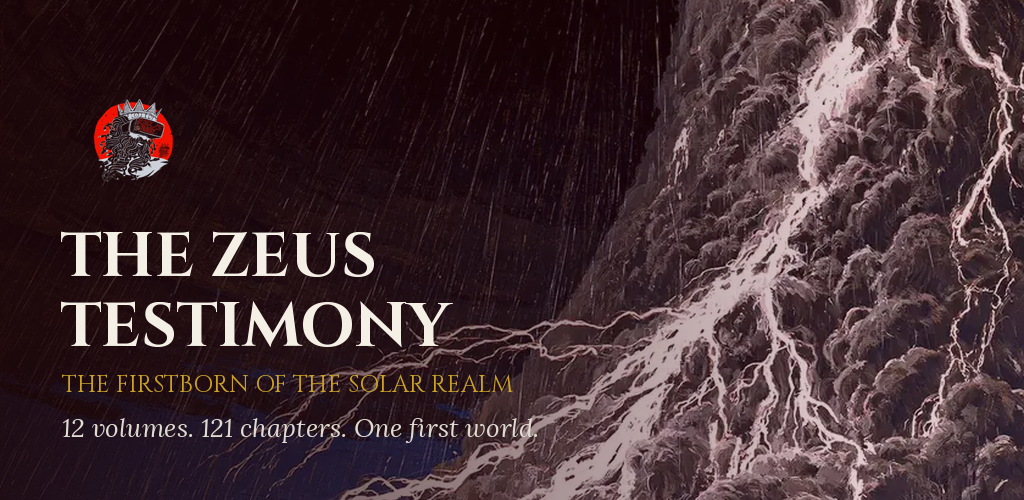
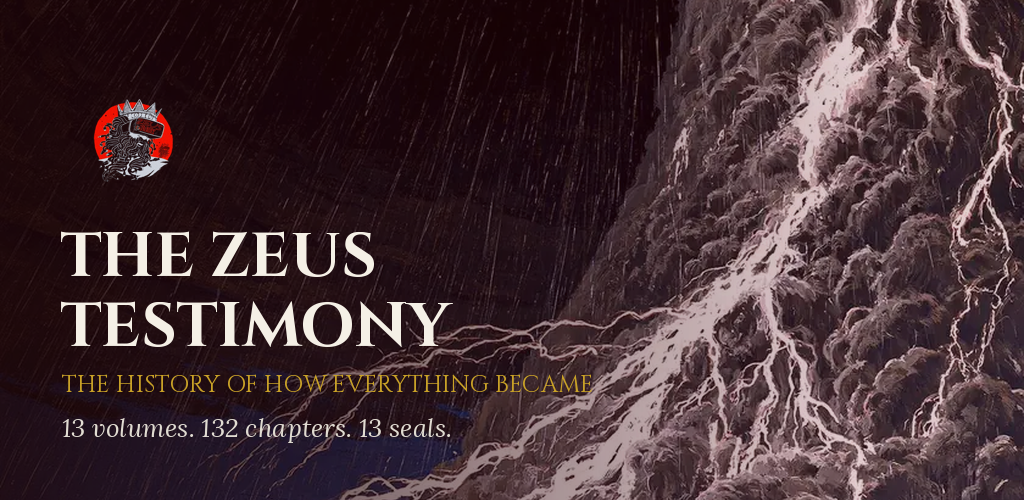
v2.9.0: The Acts of the Sky Father, volume seals, full terms of use
Content
- New volume, "The Acts of the Sky Father" (11 chapters), honouring Zeus's
  power, justice and gifts: his house and lineage, the freeing of the
  Cyclopes, the Titanomachy, the casting of lots, Zeus Xenios and Baucis
  and Philemon, Zeus Horkios and the Zanes, the Muses and Urania, the
  eagle, oak and thunderbolt, the Statue at Olympia, Marduk and the Enuma
  Elish, and the thunder gods Thor, Perun, Indra and Shango.
- Volume X recast from encouragement to revelation.
- 13 volumes, 132 chapters, 1,061 verses, 146 illustrations.

Features
- Seals: every volume carries a hidden verse that is revealed only once all
  its chapters have been read (new @seal directive, validated and tested).
- Volume chapter list shows READ in the chapter label.
- Terms of Use expanded to 19 sections and the Privacy Policy expanded,
  including POPIA and the Consumer Protection Act; contact
  thezeustower@gmail.com in the app, About screen and docs.

Claude-Session: https://claude.ai/code/session_01SLJxv3LMu86HmnE1Ybuoap

Changed region(s): [[0.0625, 0.84, 0.5312, 0.9], [0.125, 0.75, 0.5938, 0.81]]

diff --git a/app/src/main/java/com/example/ui/screens/LegalScreen.kt b/app/src/main/java/com/example/ui/screens/LegalScreen.kt
@@ -13,41 +13,80 @@ import androidx.compose.ui.unit.dp
 
 private const val EFFECTIVE = "Effective 22 November 2026"
 
+const val SUPPORT_EMAIL = "thezeustower@gmail.com"
+
 private val privacy = listOf(
     "In short" to "The Zeus Testimony collects no personal data. It has no accounts, no advertising, no analytics, " +
         "no crash reporting service and no internet permission, so it cannot send anything about you anywhere.",
+    "Who we are" to "The app is published by Zeus Factor, South Africa. Contact: $SUPPORT_EMAIL.",
     "What is stored on your device" to "To make reading comfortable, the app remembers a few things in its own private " +
         "storage on your phone: the chapter and verse you last read, your text size, the chapters you have opened, your " +
         "bookmarks and highlights, and whether you have seen the introduction. This information never leaves your device " +
-        "through the app.",
+        "through the app, and we cannot see it.",
+    "What we do not collect" to "We do not collect your name, email address, phone number, location, contacts, photos, " +
+        "device identifiers, advertising identifiers, usage statistics or any other information about you.",
     "Device backups" to "If you have turned on Android's own backup, your phone may include these reading settings in " +
         "your personal backup, so they can be restored on a new phone. That backup is controlled by you and Google, not by us.",
     "Deleting your information" to "Uninstalling the app, or clearing its storage in your phone's settings, deletes " +
         "everything listed above. Removing a bookmark or highlight in My Library deletes it immediately.",
     "Permissions" to "The app requests no special permissions: no camera, microphone, location, contacts or files. " +
         "Sharing a verse uses Android's standard share window, and you choose where it goes.",
+    "Third parties" to "The app contains no third-party advertising, analytics or tracking code. Google Play, which " +
+        "delivers the app, has its own privacy policy.",
     "Children" to "The app is not directed at children under 13, and it collects no data from anyone.",
+    "Your rights" to "Because we hold no personal information about you, there is nothing for us to access, correct or " +
+        "delete on your behalf. South Africa's Protection of Personal Information Act (POPIA) and similar laws are " +
+        "respected by design: no personal information is processed.",
     "Changes" to "If this policy ever changes, the new version will appear here and on the app's store page with a new date.",
-    "Contact" to "Questions can be sent to the developer email address shown on the app's Google Play page.",
+    "Contact" to "Questions about privacy: $SUPPORT_EMAIL.",
 )
 
 private val terms = listOf(
-    "Agreement" to "By using The Zeus Testimony you agree to these terms. If you do not agree, please uninstall the app.",
-    "What this book is" to "The Zeus Testimony is a creative and inspirational work. It tells the history of how the " +
-        "solar system and life came to be, written in an epic style. Science and History notes summarise published " +
-        "research for general education; they are simplified and may be revised as knowledge grows. Statements about the " +
-        "spirit and the meaning of life are the beliefs of the author, offered for reflection. Nothing in the app is " +
-        "professional, medical, legal or financial advice.",
-    "Your use" to "You may read the app for personal, non-commercial purposes and share individual verses using the " +
-        "share button, with credit to The Zeus Testimony. You may not copy, sell or republish the book, its illustrations " +
-        "or its design as your own.",
-    "Ownership" to "The text and design of the app belong to Zeus Factor. The illustrations are used with the permission " +
-        "of their artists and remain their property. The Cinzel and Lora typefaces are used under the SIL Open Font License 1.1.",
-    "No warranty" to "The app is provided as it is. We work to keep it accurate and working, but we cannot promise it will " +
-        "be free of errors, and we are not liable for losses arising from its use, to the extent the law allows.",
-    "Changes" to "We may update the app and these terms. Continued use after an update means you accept the updated terms.",
-    "Law" to "These terms are governed by the laws of the Republic of South Africa.",
-    "Contact" to "Questions can be sent to the developer email address shown on the app's Google Play page.",
+    "1. Agreement" to "These Terms of Use are an agreement between you and Zeus Factor, the publisher of The Zeus " +
+        "Testimony (the \"app\"). By installing or using the app you accept these terms. If you do not accept them, " +
+        "please uninstall the app.",
+    "2. Who may use the app" to "The app is intended for readers aged 13 and older. If you are under the age of " +
+        "majority where you live, use it with the permission of a parent or guardian.",
+    "3. What this book is" to "The Zeus Testimony is a literary, poetic and educational work. It tells the history of " +
+        "how the solar system, the Earth and life came to be, in the voice of an ancient testimony. It draws on published " +
+        "science, recorded history and the myths and sacred stories of many peoples.",
+    "4. Science and history notes" to "Science and History notes summarise research and historical sources for general " +
+        "education. They are simplified, may be incomplete, and may be revised as knowledge grows. They are not a " +
+        "substitute for the original sources, which are listed in the About screen where relevant.",
+    "5. Faith, myth and meaning" to "The app speaks of gods, of the Sky Father and of the spirit. These passages express " +
+        "the author's beliefs and the traditions of the peoples they come from, offered for reflection and study. They " +
+        "are not presented as scientific findings, and the app does not require any reader to adopt any belief or " +
+        "religion. Readers of every faith and of none are welcome.",
+    "6. Not professional advice" to "Nothing in the app is medical, psychological, legal, financial or other " +
+        "professional advice. Seek a qualified professional for such matters.",
+    "7. Your licence" to "Zeus Factor grants you a personal, non-exclusive, non-transferable, revocable licence to " +
+        "install the app on devices you own or control and to read it for personal, non-commercial purposes.",
+    "8. Sharing" to "You may share individual verses using the app's share and copy buttons for personal, non-commercial " +
+        "purposes, provided you credit \"The Zeus Testimony\" and do not alter the words in a way that changes their meaning.",
+    "9. What you may not do" to "You may not copy, publish, sell, rent or distribute the book as a whole or in substantial " +
+        "parts; extract, reuse or resell its illustrations; decompile, modify or create derivative versions of the app; " +
+        "remove credits or notices; or use the app in any way that breaks the law.",
+    "10. Ownership" to "The text, structure and design of the app are owned by Zeus Factor. The illustrations are used " +
+        "with the permission of their artists and remain their property. The Cinzel and Lora typefaces are used under the " +
+        "SIL Open Font License 1.1. Names of gods, peoples and historical figures belong to the common heritage of humanity.",
+    "11. Your data" to "The app collects no personal data. Everything it remembers is stored only on your device. See " +
+        "the Privacy Policy tab for details.",
+    "12. Availability and changes" to "We may update, change, add to or remove content or features of the app at any " +
+        "time, and we may stop offering the app. Updates are delivered through Google Play.",
+    "13. No warranty" to "The app is provided \"as is\" and \"as available\". To the fullest extent the law allows, " +
+        "we make no promise that it will be free of errors or interruptions, or that its content is complete or current.",
+    "14. Limitation of liability" to "To the fullest extent the law allows, Zeus Factor is not liable for any indirect, " +
+        "incidental or consequential loss arising from your use of the app. Nothing in these terms limits any rights you " +
+        "have that cannot be limited by law, including your rights under South Africa's Consumer Protection Act where it applies.",
+    "15. Google Play" to "Your download of the app is also subject to the Google Play Terms of Service. Google is not " +
+        "responsible for the app or its content.",
+    "16. Ending these terms" to "You may stop using the app at any time by uninstalling it. Your licence ends " +
+        "automatically if you break these terms.",
+    "17. General" to "If any part of these terms is found unenforceable, the rest remains in effect. These terms are " +
+        "the whole agreement between you and us about the app.",
+    "18. Governing law" to "These terms are governed by the laws of the Republic of South Africa, and the courts of " +
+        "South Africa have jurisdiction over any dispute.",
+    "19. Contact" to "Questions about these terms: $SUPPORT_EMAIL.",
 )
 
 @OptIn(ExperimentalMaterial3Api::class)

diff --git a/app/src/main/java/com/example/ui/screens/VolumeScreen.kt b/app/src/main/java/com/example/ui/screens/VolumeScreen.kt
@@ -1,6 +1,13 @@
 package com.example.ui.screens
 
+import androidx.compose.foundation.background
+import androidx.compose.foundation.border
 import androidx.compose.foundation.clickable
+import androidx.compose.foundation.shape.RoundedCornerShape
+import androidx.compose.material.icons.filled.Lock
+import androidx.compose.material.icons.filled.LockOpen
+import androidx.compose.ui.draw.clip
+import androidx.compose.ui.text.font.FontStyle
 import androidx.compose.foundation.layout.*
 import androidx.compose.foundation.lazy.LazyColumn
 import androidx.compose.foundation.lazy.items
@@ -65,12 +72,18 @@ fun VolumeScreen(volume: Volume?, library: LibraryStore, onOpenChapter: (Positio
                     modifier = Modifier
                         .clickable { onOpenChapter(Position(volume.index, chapter.index)) }
                         .padding(horizontal = 8.dp),
-                    overlineContent = { Text("CHAPTER ${chapter.number}", color = MaterialTheme.colorScheme.primary, style = MaterialTheme.typography.labelSmall) },
-                    headlineContent = { Text(chapter.title, style = MaterialTheme.typography.titleSmall) },
-                    supportingContent = {
+                    overlineContent = {
                         val read = "${volume.index}.${chapter.index}" in library.readChapters
                         Text(
-                            (chapter.epigraph ?: "${chapter.verses.size} verses") + if (read) "  ·  Read" else "",
+                            "CHAPTER ${chapter.number}" + if (read) "  ·  READ" else "",
+                            color = MaterialTheme.colorScheme.primary,
+                            style = MaterialTheme.typography.labelSmall,
+                        )
+                    },
+                    headlineContent = { Text(chapter.title, style = MaterialTheme.typography.titleSmall) },
+                    supportingContent = {
+                        Text(
+                            chapter.epigraph ?: "${chapter.verses.size} verses",
                             style = MaterialTheme.typography.bodySmall,
                             maxLines = 2,
                         )
@@ -81,6 +94,50 @@ fun VolumeScreen(volume: Volume?, library: LibraryStore, onOpenChapter: (Positio
                     },
                 )
             }
+            volume.seal?.let { seal ->
+                item { SealCard(seal, read = library.readCount(volume), total = volume.chapters.size) }
+            }
+        }
+    }
+}
+
+/** The volume's hidden verse: locked until every chapter has been opened. */
+@Composable
+private fun SealCard(seal: String, read: Int, total: Int) {
+    val open = read >= total
+    val gold = Color(0xFFC9A227)
+    Column(
+        Modifier
+            .fillMaxWidth()
+            .padding(24.dp)
+            .clip(RoundedCornerShape(16.dp))
+            .background(MaterialTheme.colorScheme.surface)
+            .border(1.dp, gold.copy(alpha = if (open) 0.9f else 0.35f), RoundedCornerShape(16.dp))
+            .padding(24.dp),
+        horizontalAlignment = Alignment.CenterHorizontally,
+    ) {
+        Icon(
+            if (open) Icons.Filled.LockOpen else Icons.Filled.Lock,
+            contentDescription = null,
+            tint = gold,
+        )
+        Spacer(Modifier.height(10.dp))
+        Text(if (open) "THE SEAL IS BROKEN" else "A SEAL RESTS ON THIS VOLUME", style = MaterialTheme.typography.labelSmall, color = gold)
+        Spacer(Modifier.height(12.dp))
+        if (open) {
+            Text(
+                seal,
+                style = MaterialTheme.typography.titleSmall.copy(fontStyle = FontStyle.Italic),
+                color = MaterialTheme.colorScheme.onSurface,
+                textAlign = TextAlign.Center,
+            )
+        } else {
+            Text(
+                "Read every chapter of this volume to break the seal ($read of $total).",
+                style = MaterialTheme.typography.bodySmall,
+                color = MaterialTheme.colorScheme.onSurface.copy(alpha = 0.7f),
+                textAlign = TextAlign.Center,
+            )
         }
     }
 }

diff --git a/app/src/main/java/com/example/data/TestimonyParser.kt b/app/src/main/java/com/example/data/TestimonyParser.kt
@@ -18,7 +18,7 @@ object TestimonyParser {
         val verses = mutableListOf<VerseB>()
     }
     private class VolumeB(val title: String) {
-        var subtitle = ""; var summary = ""; var image: String? = null
+        var subtitle = ""; var summary = ""; var image: String? = null; var seal: String? = null
         val chapters = mutableListOf<ChapterB>()
     }
 
@@ -42,6 +42,7 @@ object TestimonyParser {
                         "volume" -> volumes += VolumeB(value)
                         "subtitle" -> (volume ?: fail(lineNo, "@subtitle before any @volume")).subtitle = value
                         "summary" -> (volume ?: fail(lineNo, "@summary before any @volume")).summary = value
+                        "seal" -> (volume ?: fail(lineNo, "@seal before any @volume")).seal = value
                         "chapter" -> (volume ?: fail(lineNo, "@chapter before any @volume")).chapters += ChapterB(value)
                         "epigraph" -> (chapter ?: fail(lineNo, "@epigraph must follow a @chapter")).epigraph = value
                         "image" -> {
@@ -74,6 +75,7 @@ object TestimonyParser {
                     subtitle = v.subtitle,
                     summary = v.summary,
                     image = v.image,
+                    seal = v.seal,
                     chapters = v.chapters.mapIndexed { ci, c ->
                         Chapter(
                             volumeIndex = vi,

diff --git a/app/src/test/java/com/example/ui/ResumeAndLegalTest.kt b/app/src/test/java/com/example/ui/ResumeAndLegalTest.kt
@@ -58,4 +58,22 @@ class ResumeAndLegalTest {
         rule.onNodeWithText("Terms of Use").performClick()
         waitFor("Republic of South Africa")
     }
+
+    @Test
+    fun sealOpensWhenVolumeIsFinished() {
+        val context = ApplicationProvider.getApplicationContext<Context>()
+        ReadingPrefs(context).introSeen = true
+        val testimony = com.example.data.TestimonyParser.parse(java.io.File("src/main/assets/testimony.txt").readText())
+        val read = org.json.JSONObject()
+        testimony.volumes[0].chapters.forEach { read.put("0.${it.index}", 1L) }
+        context.getSharedPreferences("library", Context.MODE_PRIVATE).edit().putString("read", read.toString()).commit()
+        rule.setContent { AppTheme(darkTheme = true) { AppNavigation() } }
+        waitFor("THE ZEUS TESTIMONY")
+        rule.onNode(hasScrollAction()).performScrollToNode(hasText("The Unnamed Source"))
+        rule.onAllNodesWithText("The Unnamed Source")[0].performClick()
+        waitFor("VOLUME I")
+        rule.onNode(hasScrollAction()).performScrollToNode(hasText("THE SEAL IS BROKEN"))
+        rule.onNodeWithText(testimony.volumes[0].seal!!).assertExists()
+        rule.onRoot().captureRoboImage("build/screens/10_seal.png")
+    }
 }

diff --git a/app/src/test/java/com/example/TestimonyParserTest.kt b/app/src/test/java/com/example/TestimonyParserTest.kt
@@ -75,12 +75,13 @@ class TestimonyParserTest {
     @Test
     fun bundledTestimonyIsWellFormed() {
         val t = TestimonyParser.parse(File("src/main/assets/testimony.txt").readText())
-        assertEquals(12, t.volumes.size)
+        assertEquals(13, t.volumes.size)
         val raw = File("src/main/assets/testimony.txt").readText()
         assertTrue("em or en dash in content", '\u2014' !in raw && '\u2013' !in raw)
         t.volumes.forEach { v ->
             assertTrue("${v.title} has too few chapters", v.chapters.size >= 4)
             assertTrue("${v.title} lacks summary", v.summary.isNotBlank())
+            assertTrue("${v.title} lacks a seal", !v.seal.isNullOrBlank())
             assertEquals(v.chapters.size, v.chapters.map { it.title }.toSet().size)
             v.chapters.forEach {
                 assertTrue("${it.title} has too few verses", it.verses.size >= 7)

diff --git a/app/src/main/java/com/example/ui/screens/AboutScreen.kt b/app/src/main/java/com/example/ui/screens/AboutScreen.kt
@@ -52,7 +52,8 @@ fun AboutScreen(testimony: Testimony, onShowIntro: () -> Unit, onLegal: () -> Un
             )
             Section(
                 "Credits",
-                "Illustrations are used with the permission of their artists.\n" +
+                "Published by Zeus Factor, South Africa. Contact: $SUPPORT_EMAIL\n" +
+                    "Illustrations are used with the permission of their artists.\n" +
                     "Typefaces: Cinzel by Natanael Gama and Lora by Cyreal, both under the SIL Open Font License 1.1.",
             )
             Section(

diff --git a/app/src/test/java/com/example/ui/ReaderFlowTest.kt b/app/src/test/java/com/example/ui/ReaderFlowTest.kt
@@ -50,7 +50,7 @@ class ReaderFlowTest {
         waitForText("You are part of this story.")
         rule.onNodeWithText("Skip").performClick()
         waitForText("THE ZEUS TESTIMONY")
-        rule.onNodeWithText("12 volumes", substring = true).assertExists()
+        rule.onNodeWithText("13 volumes", substring = true).assertExists()
         shot("1_home")
 
         rule.onNode(hasScrollAction()).performScrollToNode(hasText("The Firstborn"))

diff --git a/app/src/main/java/com/example/data/Testimony.kt b/app/src/main/java/com/example/data/Testimony.kt
@@ -35,6 +35,8 @@ data class Volume(
     val summary: String,
     val image: String?,
     val chapters: List<Chapter>,
+    /** A hidden verse revealed only after every chapter of the volume has been read. */
+    val seal: String? = null,
 ) {
     val number: Int get() = index + 1
     val numeral: String get() = toRoman(number)

diff --git a/tools/validate_testimony.py b/tools/validate_testimony.py
@@ -32,7 +32,7 @@ def main() -> int:
                 volumes.append({"title": value, "summary": "", "image": None, "chapters": []})
             elif vol is None:
                 errors.append(f"line {n}: @{key} before any @volume")
-            elif key in ("subtitle", "summary"):
+            elif key in ("subtitle", "summary", "seal"):
                 vol[key] = value
             elif key == "chapter":
                 vol["chapters"].append({"title": value, "image": None, "epigraph": None, "verses": 0})
@@ -57,6 +57,8 @@ def main() -> int:
 
     wanted = ["hero.webp"]
     for v in volumes:
+        if not v.get("seal"):
+            errors.append(f"volume {v['title']!r}: missing @seal")
         if not v["summary"]:
             errors.append(f"volume {v['title']!r}: missing @summary")
         if len(v["chapters"]) < 4:

diff --git a/doc/play-store-submission.md b/doc/play-store-submission.md
@@ -59,7 +59,7 @@ Google rejects listings that present unproven claims as fact. The app itself is 
 - [x] App icon: `store/icon-512.png` (512 x 512).
 - [x] Feature graphic: `store/feature-graphic-1024x500.png`.
 - [x] Phone screenshots: `store/screenshots/` (1080 x 1920, regenerated by `ReaderFlowTest`).
-- [ ] Category: **Books & Reference**. Contact email required (shown publicly).
+- [ ] Category: **Books & Reference**. Contact email: thezeustower@gmail.com (shown publicly).
 
 ### Full description draft
 The Zeus Testimony is an epic history of how everything became, written in the voice of an ancient
@@ -70,7 +70,9 @@ world, rise beyond the frost line and shape every planet that followed. Follow t
 Earth, the arrival of the oceans, the rise of life, and finally the reader: a being made of
 hydrogen from the first moments of the universe, iron from dying stars and water older than the Sun.
 
-- 12 volumes, 121 chapters, nearly 1,000 verses, illustrated throughout
+- 13 volumes, 132 chapters, over 1,000 verses, illustrated throughout
+- The acts of the Sky Father and the thunder gods of many nations
+- Hidden seals: one sealed verse per volume, opened only by those who read it all
 - Science and History notes explain what is proven and what is still debated
 - Wisdom notes on strength, patience, boundaries and endurance
 - Bookmarks, colour highlights, reading history, search and a verse of the day

diff --git a/doc/changes.md b/doc/changes.md
@@ -1,5 +1,11 @@
 # Changes
 
+## 2.9.0
+- New volume, "The Acts of the Sky Father" (11 chapters): Zeus's house and lineage told with honour, the freeing of the Cyclopes, the Titanomachy, the casting of lots, the law of the stranger (Baucis and Philemon), Zeus Horkios and the Zanes, the Muses, the eagle, oak and thunderbolt, the Statue at Olympia, Marduk and the Enuma Elish, and the thunder gods of many peoples (Thor, Perun, Indra, Shango).
+- Seals: each volume carries a hidden verse revealed only when all its chapters have been read.
+- Volume X recast from encouragement to revelation.
+- Terms of Use expanded to 19 sections; Privacy Policy expanded; contact email thezeustower@gmail.com.
+
 ## 2.8.0
 - Volume X rewritten as "The Image of the Stars: What You Are Made Of" (10 chapters on the star-forged elements of the human body, pressure and strength, Jupiter's restrained power, the unbroken line of life, conservation of matter, and the undying king and mortal reader). Greek myths of Zeus's family removed throughout.
 - Privacy Policy and Terms of Use screen (About and home footer).

diff --git a/doc/PRD.md b/doc/PRD.md
@@ -8,7 +8,7 @@ The Zeus Testimony is a 12-volume foundational text that merges astrophysics wit
 - Enthusiasts of narrative-driven, lore-rich reading applications.
 
 ## 3. Major Features
-- **12 Volumes, 121 chapters**: Deep integration of the refactored Theogony into a "Bible-style" format.
+- **13 Volumes, 132 chapters**: Deep integration of the refactored Theogony into a "Bible-style" format.
 - **Labelled commentary**: Science, Myth, History and Wisdom notes attached to verses, so readers can tell established fact from hypothesis from story.
 - **Epic UI/UX**: An immersive, 2026-standard reading environment with custom typography (Cinzel, Lora), rich deep-red color palettes, and sacred design elements.
 
